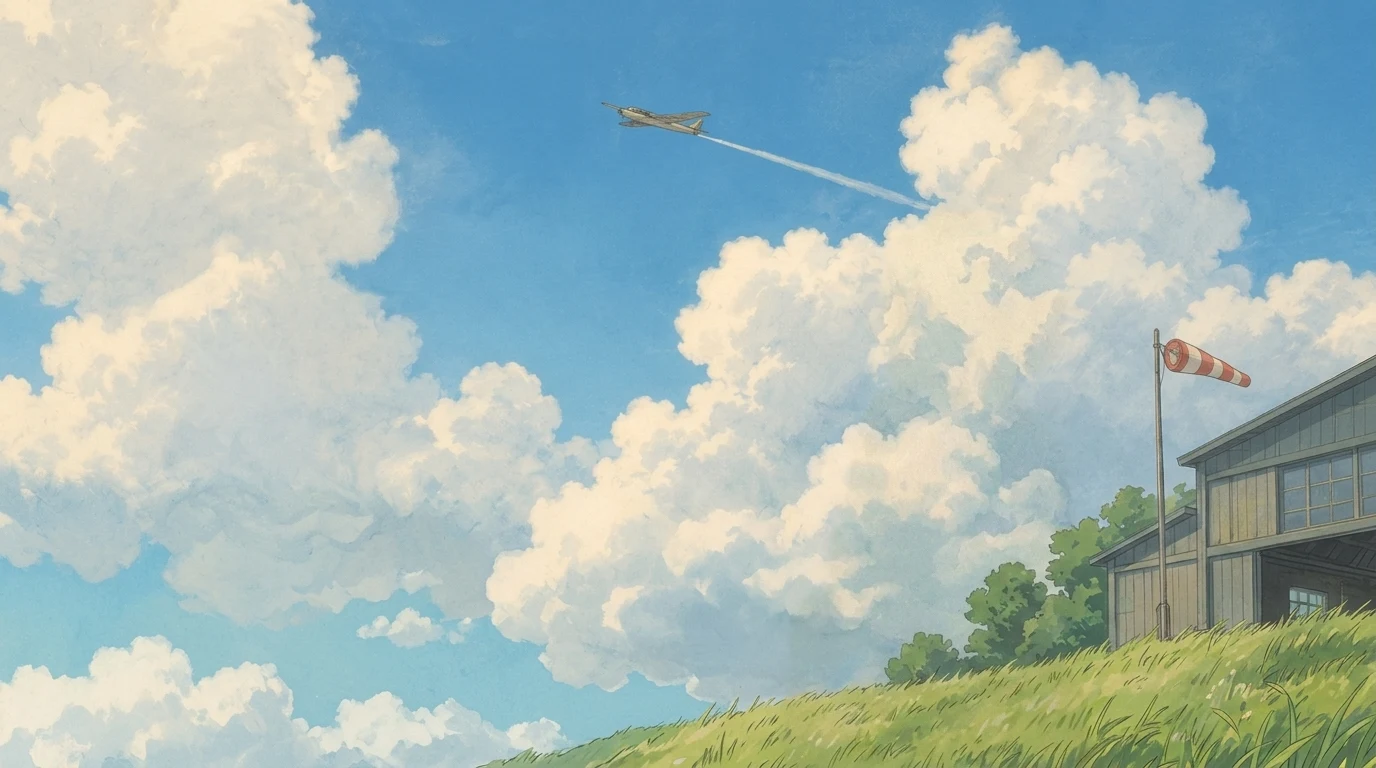
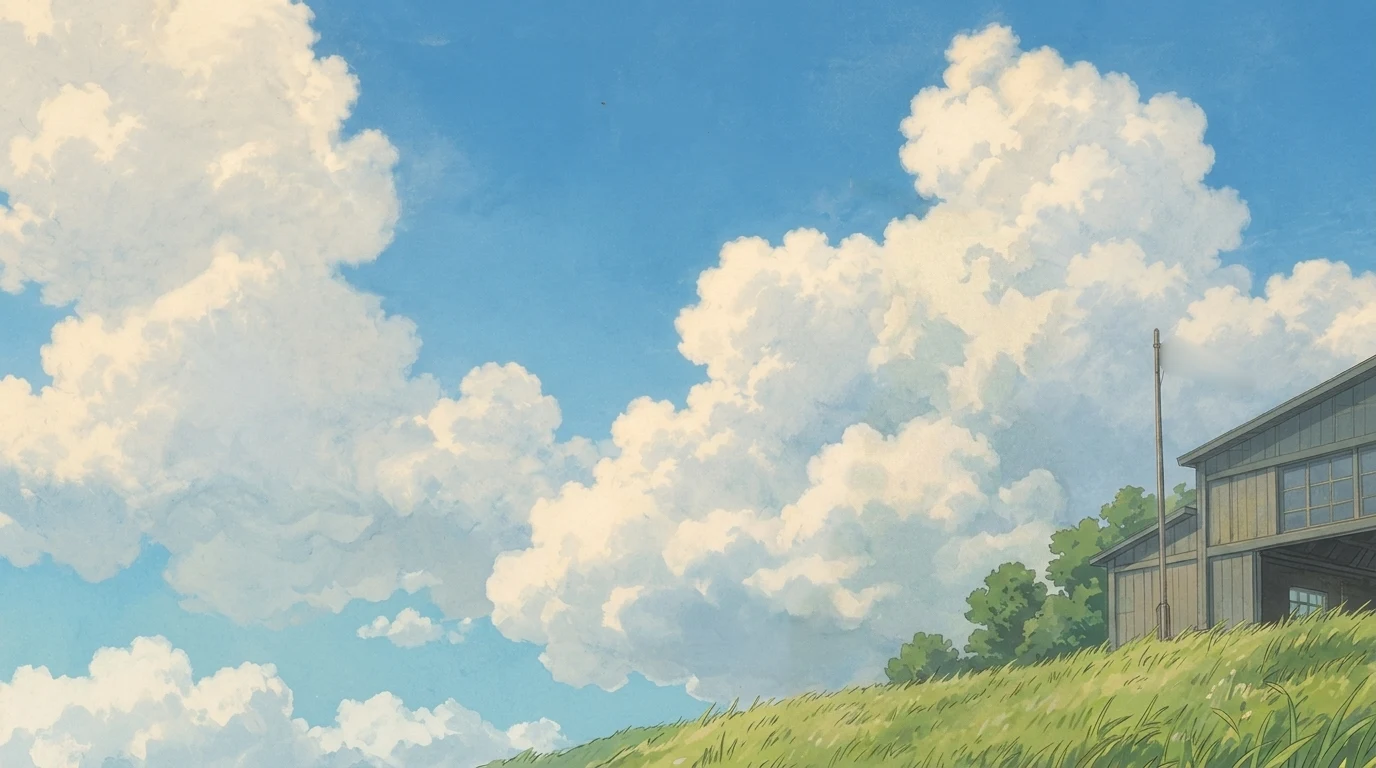
feat(hero): fly the plane, wave the windsock, drift the clouds
Round 1 of animating the hero plate. One wind drives the scene: the
clouds drift and billow in open sky, the meadow sways harder toward the
front, and the windsock ripples, fills in the gusts and sags between them.
Every 40-90s the plane crosses on its painted heading, out from behind the
hangar and off the top, drawing a soft contrail that lingers 7s.

  plane.webp  cut from the master where it differs from the clean plate
  sock.webp   cut by a hand-drawn outline
  back.webp   both holes filled by a blur pyramid from the surrounding
              sky; the contrail's tail, inside a cloud, from the clean
              plate (a blur fill there left a ghost trail)
  depth.png   gains B = open sky, where the clouds may drift, held 18px
              off the roofline so it never smears

The scene clock only advances while the hero is drawn, so a flight never
happens unseen.

The closing grass band now uses the hero's own meadow: the clean plate's
flat grass (516x68), crossfaded into a 436px tile, laid along the foot of
the band with a rolling top edge. The drawn blades take its palette
(#5F7343 to #BBBE84): a dense far row for the horizon, a sparser inked
near row in front.

verify-hero-depth.js: 29/29 pass.

diff --git a/hero-depth.js b/hero-depth.js
@@ -1,8 +1,10 @@
 /* Depth hero.
    Redraws the hero plate as three depths in one full-screen shader: the sky
    far, the hangar and meadow nearer, the figure nearest. The pointer and the
-   scroll position shift each depth by a different amount, and a slow wind
-   runs through the meadow.
+   scroll position shift each depth by a different amount. One wind drives
+   the scene: the clouds drift and billow, the meadow sways, and the windsock
+   fills and flaps with the same gusts. Every minute or so the plane crosses
+   the sky, drawing its contrail, and passes behind the hangar.
 
    Layers come from scripts/build-hero-layers.sh, all cut from
    hero-master-bg.jpg itself, so the canvas draws the same picture the <img>
@@ -26,6 +28,16 @@ const PLATE_ASPECT = 1376 / 768;
 // plate's edge. It has to exceed the largest shift below.
 const ZOOM = 1.045;
 
+// Sprite rectangles in plate pixels (x, y from top, width, height); they must
+// match the crops in scripts/build-hero-layers.sh.
+const PLANE_RECT = [596, 98, 110, 44];
+const SOCK_RECT = [1158, 331, 100, 64];
+// Flight timing, in seconds.
+const FLIGHT = 16;          // right edge to top edge
+const TRAIL_FADE = 7;       // contrail lingers this long after
+const FIRST_FLIGHT = 3;
+const FLIGHT_GAP = [40, 90];
+
 const vertexShader = /* glsl */ `
   varying vec2 vUv;
   void main() {
@@ -37,38 +49,104 @@ const fragmentShader = /* glsl */ `
   uniform sampler2D uBack;
   uniform sampler2D uFigure;
   uniform sampler2D uDepth;
+  uniform sampler2D uPlane;
+  uniform sampler2D uSock;
+  uniform vec4 uPlaneRect;
+  uniform vec4 uSockRect;
   uniform vec2 uScale;     // visible fraction of the plate, per axis
   uniform vec2 uOrigin;    // plate uv of the canvas's bottom-left corner
   uniform vec2 uPointer;   // eased, -1..1
   uniform float uScroll;   // 0 at rest, 1 once the hero has scrolled away
   uniform float uTime;
+  uniform float uFlight;   // seconds since the plane set off, or -1
   varying vec2 vUv;
+
+  const vec2 PLATE = vec2(1376.0, 768.0);
+  // The flight line runs through the plane's painted position at the
+  // painted heading: in from behind the hangar, out through the top.
+  const vec2 FLY_FROM = vec2(1458.0, 376.0);
+  const vec2 FLY_TO = vec2(206.0, -25.0);
+
+  // Plate uv (v up) to plate pixels (y down), and back.
+  vec2 toPx(vec2 uv) { return vec2(uv.x, 1.0 - uv.y) * PLATE; }
+
+  vec4 sprite(sampler2D tex, vec4 rect, vec2 px) {
+    vec2 local = (px - rect.xy) / rect.zw;
+    if (any(lessThan(local, vec2(0.0))) || any(greaterThan(local, vec2(1.0)))) return vec4(0.0);
+    return texture2D(tex, vec2(local.x, 1.0 - local.y));
+  }
 
   void main() {
     vec2 uv = uOrigin + vUv * uScale;
-    vec2 depthSample = texture2D(uDepth, uv).rg;
+    vec3 depthSample = texture2D(uDepth, uv).rgb;
     float depth = depthSample.r;
     float meadow = depthSample.g;
+    float sky = depthSample.b;
+    float t = uTime;
+    // One wind for the whole scene, swelling and dropping in gusts.
+    float gust = 0.55 + 0.45 * sin(t * 0.37);
 
     // Far layers move least. Sky lags behind the scroll, so the section reads
-    // as deeper than the page around it. Pointer plus scroll stays under the
-    // ZOOM margin (~0.021 uv per side) so no layer samples past the plate.
-    // The background is one displaced image, so any depth step bends the
-    // straight lines across it; keep its spread small and let the separate
-    // figure layer carry most of the depth.
+    // as deeper than the page around it. The background is one displaced
+    // image, so any depth step bends the straight lines across it; keep its
+    // spread small and let the separate figure layer carry most of the depth.
+    // Every shift below, summed, stays under the ZOOM margin (~0.021 uv per
+    // side) so no layer samples past the plate.
     vec2 shift = -uPointer * (0.004 + 0.006 * depth);
     shift.y += uScroll * 0.008 * (1.0 - depth);
+    vec2 skyShift = -uPointer * 0.004 + vec2(0.0, uScroll * 0.008);
+    vec2 groundShift = -uPointer * (0.004 + 0.006 * 0.65);
 
-    // Wind: a slow wave travelling right to left across the meadow, swelling
-    // and dropping in gusts. Kept to a couple of pixels so the painted blades
-    // sway rather than smear.
-    float gust = 0.55 + 0.45 * sin(uTime * 0.37);
-    float wave = sin(uTime * 1.7 + uv.x * 34.0 + uv.y * 9.0);
-    shift.x += meadow * gust * wave * 0.0016;
+    // Clouds: a slow drift one way and back over a couple of minutes, and a
+    // billow of a few pixels so their edges churn. Only in open sky.
+    vec2 billow = vec2(sin(uv.y * 14.0 + t * 0.19), sin(uv.x * 11.0 - t * 0.15));
+    shift += sky * (vec2(0.010 * sin(t * 0.052), 0.0) + 0.0022 * billow);
 
-    vec4 back = texture2D(uBack, uv + shift);
+    // Meadow: a wave travelling across it, stronger toward the front.
+    float wave = sin(t * 1.7 + uv.x * 34.0 + uv.y * 9.0);
+    float near = mix(0.6, 1.5, clamp((depth - 0.65) / 0.2, 0.0, 1.0));
+    shift.x += meadow * near * gust * wave * 0.0016;
+
+    vec3 color = texture2D(uBack, uv + shift).rgb;
+
+    // Contrail and plane, at sky depth, hidden behind the hangar and trees.
+    if (uFlight >= 0.0) {
+      vec2 px = toPx(uv + skyShift);
+      float ground = smoothstep(0.25, 0.45, texture2D(uDepth, uv + skyShift).r);
+      vec2 dir = normalize(FLY_TO - FLY_FROM);
+      float travelled = length(FLY_TO - FLY_FROM) * min(uFlight / ${FLIGHT.toFixed(1)}, 1.0);
+      vec2 nose = FLY_FROM + dir * travelled;
+      // The trail leaves the tail, a little below and behind the centre.
+      vec2 tail = nose - dir * 50.0 + vec2(0.0, 14.0);
+      float behind = dot(tail - px, dir);
+      float across = abs(dot(tail - px, vec2(-dir.y, dir.x)));
+      // Painted contrails are soft: it starts thin and faint just off the
+      // tail, spreads and dissolves along its length, and wavers a little.
+      float trailLength = min(travelled, 300.0);
+      float width = 2.0 + behind * 0.035;
+      across += sin(behind * 0.045 + uFlight * 0.6) * behind * 0.012;
+      float fade = 1.0 - clamp((uFlight - ${FLIGHT.toFixed(1)}) / ${TRAIL_FADE.toFixed(1)}, 0.0, 1.0);
+      float trail = smoothstep(0.0, 18.0, behind) * (1.0 - smoothstep(0.0, trailLength, behind))
+        * (1.0 - smoothstep(0.0, width, across)) * fade * 0.5;
+      color = mix(color, vec3(0.95, 0.96, 0.97), trail * (1.0 - ground));
+
+      vec4 plane = sprite(uPlane, vec4(nose - uPlaneRect.zw * 0.5, uPlaneRect.zw), px);
+      color = mix(color, plane.rgb, plane.a * (1.0 - ground) * step(uFlight, ${FLIGHT.toFixed(1)}));
+    }
+
+    // Windsock: hinged at the pole, a ripple running down it, filling out in
+    // the gusts and sagging a little between them.
+    {
+      vec2 px = toPx(uv + groundShift);
+      float along = clamp((px.x - uSockRect.x - 5.0) / (uSockRect.z - 5.0), 0.0, 1.0);
+      float ripple = sin(along * 6.5 - t * 7.0) * 1.8 * along * (0.5 + gust);
+      float sag = (1.0 - gust) * along * 6.0;
+      vec4 sock = sprite(uSock, uSockRect, px - vec2(0.0, ripple + sag));
+      color = mix(color, sock.rgb, sock.a);
+    }
+
     vec4 figure = texture2D(uFigure, uv - uPointer * 0.017);
-    gl_FragColor = vec4(mix(back.rgb, figure.rgb, figure.a), 1.0);
+    gl_FragColor = vec4(mix(color, figure.rgb, figure.a), 1.0);
     #include <colorspace_fragment>
   }`;
 
@@ -99,12 +177,14 @@ async function start() {
     t.generateMipmaps = false;
     return t;
   });
-  let back, figure, depth;
+  let back, figure, depth, plane, sock;
   try {
-    [back, figure, depth] = await Promise.all([
+    [back, figure, depth, plane, sock] = await Promise.all([
       load('assets/hero-depth/back.webp', true),
       load('assets/hero-depth/figure.webp', true),
       load('assets/hero-depth/depth.png', false),
+      load('assets/hero-depth/plane.webp', true),
+      load('assets/hero-depth/sock.webp', true),
     ]);
   } catch (e) {
     renderer.dispose();
@@ -115,6 +195,11 @@ async function start() {
     uBack: { value: back },
     uFigure: { value: figure },
     uDepth: { value: depth },
+    uPlane: { value: plane },
+    uSock: { value: sock },
+    uPlaneRect: { value: new THREE.Vector4(...PLANE_RECT) },
+    uSockRect: { value: new THREE.Vector4(...SOCK_RECT) },
+    uFlight: { value: -1 },
     uScale: { value: new THREE.Vector2(1, 1) },
     uOrigin: { value: new THREE.Vector2(0, 0) },
     uPointer: { value: new THREE.Vector2(0, 0) },
@@ -181,6 +266,9 @@ async function start() {
   clock.connect(document);
   let running = false;
   let shown = false;
+  // The scene clock only runs while the hero is drawn, so a flight never
+  // happens unseen; the next one is booked once the last trail has faded.
+  let flightAt = FIRST_FLIGHT;
 
   function frame(now) {
     if (!visible || document.hidden || !canvas.isConnected) {
@@ -188,8 +276,13 @@ async function start() {
       return;
     }
     clock.update(now);
-    const t = clock.getElapsed();
-    uniforms.uTime.value = t;
+    // Capped so time scrolled or tabbed away does not count.
+    const t = (uniforms.uTime.value += Math.min(clock.getDelta(), 0.1));
+
+    if (t > flightAt + FLIGHT + TRAIL_FADE) {
+      flightAt = t + FLIGHT_GAP[0] + Math.random() * (FLIGHT_GAP[1] - FLIGHT_GAP[0]);
+    }
+    uniforms.uFlight.value = t >= flightAt ? t - flightAt : -1;
 
     // Until the pointer moves, drift gently so the depth reads on its own.
     const tx = pointerSeen ? target.x : Math.sin(t * 0.21) * 0.35;

diff --git a/grass-band.js b/grass-band.js
@@ -1,31 +1,36 @@
 /* Closing grass band, drawn.
    Replaces the photographic plate and its VP9 loop at the foot of #contact
-   with blades painted the way the hero's meadow is: flat greens, a darker
-   ink edge, tips standing clear against the sky instead of fading into a
-   masked haze. Two rows; the far one is shorter and takes on the sky's
-   colour. The wind leans everything right, the way the hero's windsock
-   points, in gusts that travel across the band.
+   with the hero's own meadow: its painted grass, cut from the plate as
+   assets/meadow-strip.webp and tiled along the foot of the band, with drawn
+   blades in its palette rising out of it, tips standing clear against the
+   sky. Behind the texture a dense far row makes the horizon; in front, a
+   sparser near row with an ink edge. The wind leans everything right, the
+   way the hero's windsock points, in gusts that travel across the band.
 
    Canvas 2D, no library, so phones get it too. Under reduced motion it
    draws one still frame. The <img> under it stays as the no-JS fallback
    and is hidden once the canvas has drawn. */
 (function () {
   var REDUCED = window.matchMedia('(prefers-reduced-motion: reduce)').matches;
+  // Colours sampled from the plate's meadow (dark #5F7343 to lit #BBBE84).
   var SKY = [182, 210, 223];          // section colour at the band's height
-  var INK = 'rgba(46, 72, 36, 0.55)'; // blade edge, as on the hero meadow
-  var SUN = [204, 212, 122];          // the yellow-green the hero's lit tips take
+  var INK = 'rgba(58, 78, 42, 0.6)';  // blade edge, as on the hero meadow
+  var SUN = [187, 190, 132];          // the plate's lit tips
 
   // Far row then near row: tip height as a fraction of the band, blade
   // spacing in CSS px, base and tip colours, how far toward the sky colour
   // the row is hazed, and how much of the row's tips catch the sun.
   var ROWS = [
-    { min: 0.42, max: 0.72, gap: 4, base: [92, 132, 64], tip: [170, 192, 104], haze: 0.25, sun: 0.3, ink: false },
-    { min: 0.58, max: 1.0, gap: 4, base: [52, 92, 40], tip: [130, 168, 70], haze: 0, sun: 0.7, ink: true },
+    { min: 0.45, max: 0.78, gap: 4, base: [116, 136, 82], tip: [170, 174, 100], haze: 0.2, sun: 0.4, ink: false },
+    { min: 0.55, max: 1.0, gap: 10, base: [95, 115, 67], tip: [152, 163, 93], haze: 0, sun: 0.7, ink: true },
   ];
-  // Solid meadow under the roots, so no sky shows between blade bases.
-  var GROUND = 0.4;
+  // The painted meadow under the roots, as a fraction of the band's height;
+  // its top edge fades in over the far row.
+  var GROUND = 0.6;
+  var STRIP = 'assets/meadow-strip.webp';
+  var STRIP_HEIGHT = 68;
 
-  var canvas, ctx, band, img, ground, blades = [], width = 0, height = 0, visible = true, running = false;
+  var canvas, ctx, band, img, ground, strip, blades = [], width = 0, height = 0, visible = true, running = false;
 
   // Deterministic, so the band looks the same on every visit and resize.
   function rng(seed) {
@@ -49,12 +54,40 @@
     canvas.height = Math.round(height * dpr);
     ctx.setTransform(dpr, 0, 0, dpr, 0, 0);
 
-    // Between the rows: fades in from the far row's colour so its top edge
-    // reads as more meadow, not as a band.
-    ground = ctx.createLinearGradient(0, height * (1 - GROUND), 0, height);
-    ground.addColorStop(0, 'rgba(92, 132, 64, 0)');
-    ground.addColorStop(0.45, 'rgb(74, 112, 52)');
-    ground.addColorStop(1, 'rgb(48, 84, 38)');
+    // Between the rows: the painted strip, tiled at the ground's height and
+    // faded in at the top so it grows out of the far row. Built once per
+    // layout on its own canvas; a plain olive fill stands in until the strip
+    // has loaded.
+    var gh = Math.max(1, Math.round(height * GROUND * dpr));
+    ground = document.createElement('canvas');
+    ground.width = canvas.width;
+    ground.height = gh;
+    var g = ground.getContext('2d');
+    if (strip && strip.complete && strip.naturalWidth) {
+      var pattern = g.createPattern(strip, 'repeat-x');
+      var k = gh / STRIP_HEIGHT;
+      pattern.setTransform(new DOMMatrix([k, 0, 0, k, 0, 0]));
+      g.fillStyle = pattern;
+    } else {
+      g.fillStyle = 'rgb(116, 136, 82)';
+    }
+    g.fillRect(0, 0, ground.width, gh);
+    var fade = g.createLinearGradient(0, 0, 0, gh);
+    fade.addColorStop(0, 'rgba(0,0,0,0)');
+    fade.addColorStop(0.15, 'rgba(0,0,0,1)');
+    g.globalCompositeOperation = 'destination-in';
+    g.fillStyle = fade;
+    g.fillRect(0, 0, ground.width, gh);
+    // Roll the top edge, so the strip reads as meadow, not a straight stripe.
+    g.beginPath();
+    g.moveTo(0, gh);
+    for (var px = 0; px <= ground.width; px += 8) {
+      var roll = 0.5 + 0.3 * Math.sin(px * 0.006 / dpr) + 0.2 * Math.sin(px * 0.023 / dpr + 1.3);
+      g.lineTo(px, roll * gh * 0.35);
+    }
+    g.lineTo(ground.width, gh);
+    g.closePath();
+    g.fill();
 
     blades = [];
     var rand = rng(7);
@@ -105,8 +138,7 @@
     ctx.clearRect(0, 0, width, height);
     var i = 0;
     for (; i < blades.length && blades[i].row === 0; i++) blade(blades[i], t);
-    ctx.fillStyle = ground;
-    ctx.fillRect(0, height * (1 - GROUND), width, height * GROUND);
+    ctx.drawImage(ground, 0, height * (1 - GROUND), width, height * GROUND);
     for (; i < blades.length; i++) blade(blades[i], t);
   }
 
@@ -142,6 +174,13 @@
       canvas.className = 'horizon-grass grass-band';
       canvas.setAttribute('aria-hidden', 'true');
       ctx = canvas.getContext('2d');
+      strip = new Image();
+      strip.onload = function () {
+        if (!canvas.isConnected) return;
+        layout();
+        draw(performance.now() / 1000);
+      };
+      strip.src = STRIP;
     }
     if (canvas.previousSibling !== img) img.after(canvas);
     io.disconnect();
